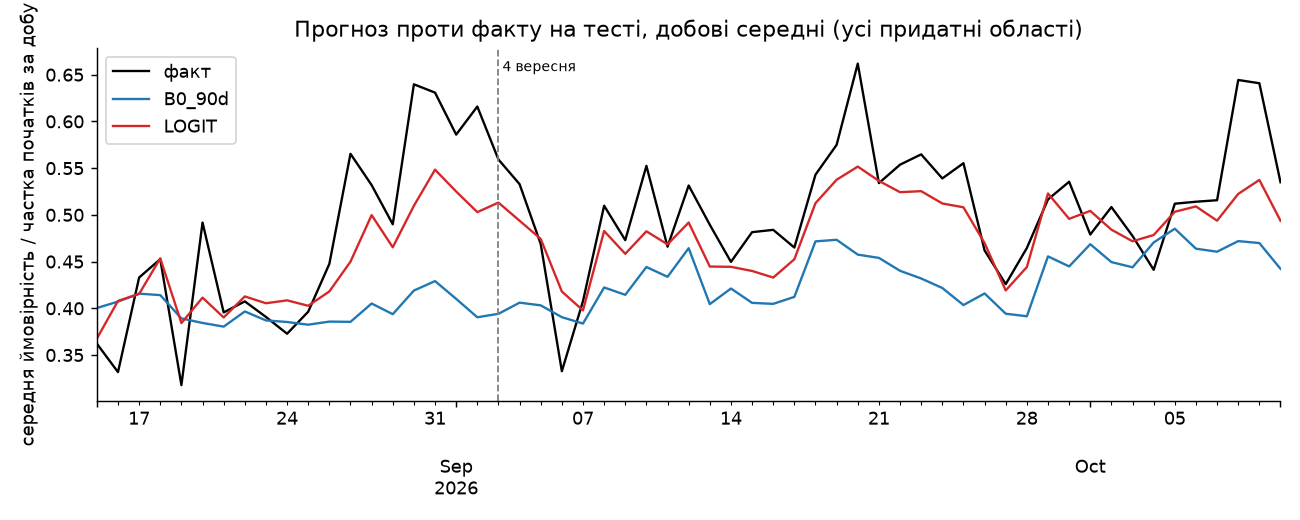
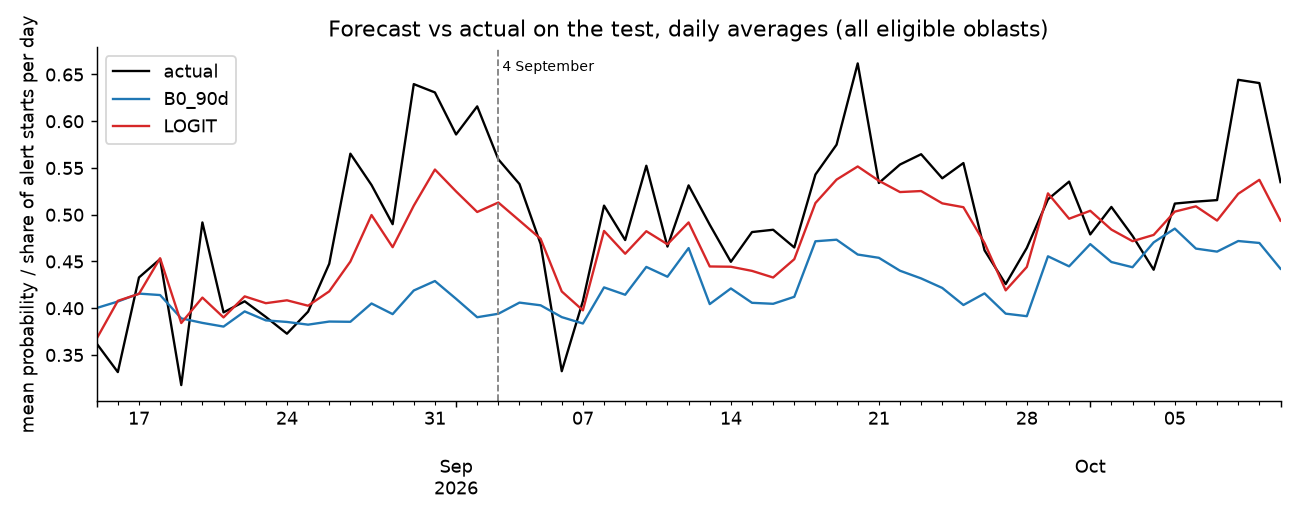
Make README figure labels English and update README
Labels of figures 14-19 are now English (only label strings changed in the three scripts; tables are unchanged and figures reproduce byte-for-byte in a separate environment).

diff --git a/src/run_test.py b/src/run_test.py
@@ -180,35 +180,35 @@ def main():
 
     # ---------- графіки ----------
     fig, ax = plt.subplots(figsize=(6.5, 6))
-    ax.plot([0, 1], [0, 1], "k--", lw=1, label="ідеал")
+    ax.plot([0, 1], [0, 1], "k--", lw=1, label="perfect")
     for m in (REF, "B3_ARIMA_cal", "LOGIT", "HGB"):
         rel = reliability(yc, pc[m], bins=12)
         ax.plot(rel[:, 0], rel[:, 1], marker="o", ms=3, label=m)
-    ax.set_xlabel("прогнозована ймовірність"); ax.set_ylabel("фактична частка початків")
-    ax.set_title("Калібрування на тесті (консервативна схема)"); ax.legend(fontsize=8)
+    ax.set_xlabel("predicted probability"); ax.set_ylabel("actual share of alert starts")
+    ax.set_title("Calibration on the test"); ax.legend(fontsize=8)
     fig.tight_layout(); fig.savefig(FIG / "14_test_calibration.png"); plt.close(fig)
 
     day = tc.dt.floor("D")
-    daily = pd.DataFrame({"факт": yc, REF: ref_p, "LOGIT": pc["LOGIT"]}).groupby(day.values).mean()
+    daily = pd.DataFrame({"actual": yc, REF: ref_p, "LOGIT": pc["LOGIT"]}).groupby(day.values).mean()
     fig, ax = plt.subplots(figsize=(10, 4))
     daily.plot(ax=ax, color=["k", "#1f77b4", "#d62728"], lw=1.3)
     ax.axvline(REGIME_CHANGE.tz_convert("UTC").tz_localize(None), color="gray", ls="--", lw=1)
-    ax.text(REGIME_CHANGE.tz_convert("UTC").tz_localize(None), ax.get_ylim()[1] * 0.98, " 4 вересня", va="top", fontsize=8)
-    ax.set_ylabel("середня ймовірність / частка початків за добу"); ax.set_xlabel("")
-    ax.set_title("Прогноз проти факту на тесті, добові середні (усі придатні області)")
+    ax.text(REGIME_CHANGE.tz_convert("UTC").tz_localize(None), ax.get_ylim()[1] * 0.98, " 4 September", va="top", fontsize=8)
+    ax.set_ylabel("mean probability / share of alert starts per day"); ax.set_xlabel("")
+    ax.set_title("Forecast vs actual on the test, daily averages (all eligible oblasts)")
     fig.tight_layout(); fig.savefig(FIG / "15_test_forecast_vs_actual.png"); plt.close(fig)
 
     fig, ax = plt.subplots(figsize=(7, 6))
     colors = ["#bbbbbb" if f else "#1f77b4" for f in po.sort_values("bss_LOGIT_vs_B0_90d").flag_lt30_positives]
     po["bss_LOGIT_vs_B0_90d"].sort_values().plot.barh(ax=ax, color=colors)
-    ax.axvline(0, color="k", lw=0.8); ax.set_xlabel("BSS проти B0_90d"); ax.set_ylabel("")
-    ax.set_title("BSS основної моделі по областях, тест\n(сірі: менше 30 позитивів, не інтерпретуються)")
+    ax.axvline(0, color="k", lw=0.8); ax.set_xlabel("Skill score (BSS) vs B0_90d"); ax.set_ylabel("")
+    ax.set_title("Skill score of the primary model by oblast, test\n(grey: fewer than 30 alert starts, not interpreted)")
     fig.tight_layout(); fig.savefig(FIG / "16_test_bss_by_oblast.png"); plt.close(fig)
 
     fig, ax = plt.subplots(figsize=(8, 4))
     ph["bss_LOGIT_vs_B0_90d"].plot.bar(ax=ax, color="#1f77b4")
-    ax.axhline(0, color="k", lw=0.8); ax.set_xlabel("година доби (Europe/Kyiv)"); ax.set_ylabel("BSS проти B0_90d")
-    ax.set_title("BSS основної моделі по годині доби, тест")
+    ax.axhline(0, color="k", lw=0.8); ax.set_xlabel("hour of day (Europe/Kyiv)"); ax.set_ylabel("Skill score (BSS) vs B0_90d")
+    ax.set_title("Skill score of the primary model by hour of day, test")
     fig.tight_layout(); fig.savefig(FIG / "17_test_bss_by_hour.png"); plt.close(fig)
     print(f"\nГотово за {time.time() - t_start:.0f} с")
 

diff --git a/src/run_levels.py b/src/run_levels.py
@@ -111,15 +111,15 @@ def main():
     day = ep.started_at.dt.floor("D").dt.tz_localize(None)
     m = (ep.started_at >= TUNE_FROM).to_numpy()
     daily = pd.DataFrame({"day": day[m], "y": y[m], "model": p_best[m], "B_exp": ref_all[m], "B_7d": ref_w7[m]}).groupby("day").mean()
-    ax[0].plot(daily.index, daily.y, "k-o", ms=3, label="факт")
+    ax[0].plot(daily.index, daily.y, "k-o", ms=3, label="actual")
     for k, c in (("model", "C0"), ("B_exp", "C3"), ("B_7d", "C2")):
-        ax[0].plot(daily.index, daily[k], c, label={"model": "модель", "B_exp": "B_exp", "B_7d": "B_7d"}[k])
+        ax[0].plot(daily.index, daily[k], c, label={"model": "level layer", "B_exp": "B_exp (all history)", "B_7d": "B_7d (last 7 days)"}[k])
     ax[0].axvline(EVAL_FROM.tz_localize(None), color="gray", ls="--", lw=0.8)
-    ax[0].set_ylabel("частка червоних серед початків"); ax[0].set_title("Добова частка червоних: факт і прогноз"); ax[0].legend(); ax[0].tick_params(axis="x", rotation=30)
+    ax[0].set_ylabel("share of red among alert starts"); ax[0].set_title("Daily share of red alerts: actual and forecast"); ax[0].legend(); ax[0].tick_params(axis="x", rotation=30)
     for k, c in (("MODEL", "C0"), ("B_exp", "C3")):
         r = reliability(y_ev, cand[k][ev], bins=6)
-        ax[1].plot(r[:, 0], r[:, 1], "-o", color=c, label=k)
-    ax[1].plot([0, 0.6], [0, 0.6], "k--", lw=0.8); ax[1].set_xlabel("прогноз"); ax[1].set_ylabel("частота"); ax[1].set_title("Калібрування на 10-01..10-10"); ax[1].legend()
+        ax[1].plot(r[:, 0], r[:, 1], "-o", color=c, label="level layer" if k == "MODEL" else "B_exp (all history)")
+    ax[1].plot([0, 0.6], [0, 0.6], "k--", lw=0.8); ax[1].set_xlabel("predicted probability"); ax[1].set_ylabel("actual frequency"); ax[1].set_title("Calibration, 1-10 October"); ax[1].legend()
     fig.tight_layout(); fig.savefig(FIG / "18_levels.png"); plt.close(fig)
 
 

diff --git a/src/run_robustness.py b/src/run_robustness.py
@@ -147,17 +147,18 @@ def main():
 
     # ---------- графік ----------
     plt.rcParams.update({"figure.dpi": 130, "axes.spines.top": False, "axes.spines.right": False})
-    fig, ax = plt.subplots(figsize=(9, 4))
+    fig, ax = plt.subplots(figsize=(10, 4.4))
     items = []
     for _, r in rb[(rb.model == "LOGIT")].iterrows():
-        items.append((f"{r.subset}\nпроти {r.vs}", r.bss, r.ci_low, r.ci_high))
+        subset = r.subset.replace("усі області", "all\noblasts").replace("без 7 областей", "without 7\noblasts")   # у таблицях підписи українською
+        items.append((f"{subset}\nvs {r.vs}", r.bss, r.ci_low, r.ci_high))
     for _, r in cis[(cis.model == "LOGIT")].iterrows():
-        items.append((f"мітки: {'архів' if 'архів' in r.labels else 'ряд T1'}\nпроти {r.vs}", r.bss, r.ci_low, r.ci_high))
+        items.append((f"{'archive' if 'архів' in r.labels else 'volunteer'}\nlabels\nvs {r.vs}", r.bss, r.ci_low, r.ci_high))
     xs = np.arange(len(items))
     ax.errorbar(xs, [i[1] for i in items], yerr=[[i[1] - i[2] for i in items], [i[3] - i[1] for i in items]], fmt="o", capsize=3)
     ax.axhline(0, color="k", lw=0.8)
     ax.set_xticks(xs); ax.set_xticklabels([i[0] for i in items], fontsize=7)
-    ax.set_ylabel("BSS логістичної моделі"); ax.set_title("Стійкість BSS: області й джерело міток (95% ІН, блоки 3 доби)")
+    ax.set_ylabel("Skill score (BSS) of logistic regression"); ax.set_title("Robustness of the skill score: oblasts and label source (95% CI, 3-day blocks)")
     fig.tight_layout(); fig.savefig(FIG / "19_robustness.png"); plt.close(fig)
     print(f"\nГотово за {time.time() - t0:.0f} с")
 

diff --git a/docs/definition_of_done.md b/docs/definition_of_done.md
@@ -142,3 +142,4 @@
 - 2026-10-11: відтворюваність із чистого клону перевірено (копія файлів, що потрапили б у коміт; свіже venv із requirements.txt; `make all` за 12 хв): 43 тести проходять, дані завантажено з перевіркою git-хешів, усі 43 таблиці й 3 логи збігаються з оригіналом (відрізняється лише колонка `sec` з часом виконання в `model_val_configs.csv`), усі 19 графіків ідентичні побайтово. Додано `tests/test_boundary.py` (7 тестів, 4 мутації виявлено), `src/download_data.py` (фіксовані коміти й хеші), `Makefile`, зафіксований `requirements.txt`, `docs/methodology_details.md`.
 - 2026-10-11: README написано англійською (рішення користувача); текстові дані (ітерація 6, п. 9) не включаємо (рішення користувача); коміти створюються наприкінці проєкту, тож хронологія історії не відповідає реальній послідовності роботи.
 - 2026-10-11: перевірка DoD на відповідність стану. Виправлено: purge 4 год замість 3, мова README, статуси ітерацій 6–7, застаріле «перевіряємо в ітерації 5», опис етапу 2 (оцінено лише червону частину, добуток не оцінювався, припущення не перевірені), рядок про команду відтворення. Відкритими лишено п. 8 (мертвий код) і п. 6 (важливість ознак).
+- 2026-10-11: додано ліцензію MIT для коду; README спрощено й повністю англійською; підписи на графіках 14–19 переведено англійською (зміни лише в рядках підписів у run_test.py, run_levels.py, run_robustness.py; усі таблиці без змін, графіки відтворюються побайтово в окремому середовищі). Графіки 01–13 і звіти лишаються українською.

diff --git a/README.md b/README.md
@@ -55,7 +55,7 @@ Details by oblast, hour and before/after the 4 September regime change: [`report
 
 ![Forecast vs actual on the test](reports/figures/15_test_forecast_vs_actual.png)
 
-*Daily average forecast probability vs the actual share of alert starts on the test. Black: actual, red: logistic regression, blue: 90-day baseline. The baseline stays flat while the real rate rises; the model follows the trend but underestimates the peaks. Figure labels are in Ukrainian.*
+*Daily average forecast probability vs the actual share of alert starts on the test. Black: actual, red: logistic regression, blue: 90-day baseline. The baseline stays flat while the real rate rises; the model follows the trend but underestimates the peaks.*
 
 ![Skill by oblast](reports/figures/16_test_bss_by_oblast.png)
 
@@ -100,7 +100,7 @@ Details by oblast, hour and before/after the 4 September regime change: [`report
 - Terms of use of the original Telegram channels were not checked.
 - Pinned commits and file sizes: [`src/download_data.py`](src/download_data.py).
 
-**Repository layout.** `src/airalerts/` (package), `src/run_*.py` (stages), `tests/`, `reports/` (results, tables, figures), `docs/` (problem statement, definition of done, methodology details). Reports and docs are in Ukrainian; figure labels are too.
+**Repository layout.** `src/airalerts/` (package), `src/run_*.py` (stages), `tests/`, `reports/` (results, tables, figures), `docs/` (problem statement, definition of done, methodology details). Reports and docs are in Ukrainian, and so are the figures of the data audit and validation (01–13); the figures shown in this README (14–19) are in English.
 
 **License.** The code is under the [MIT License](LICENSE). The data are not part of this repository and keep the terms of their original sources.
 
